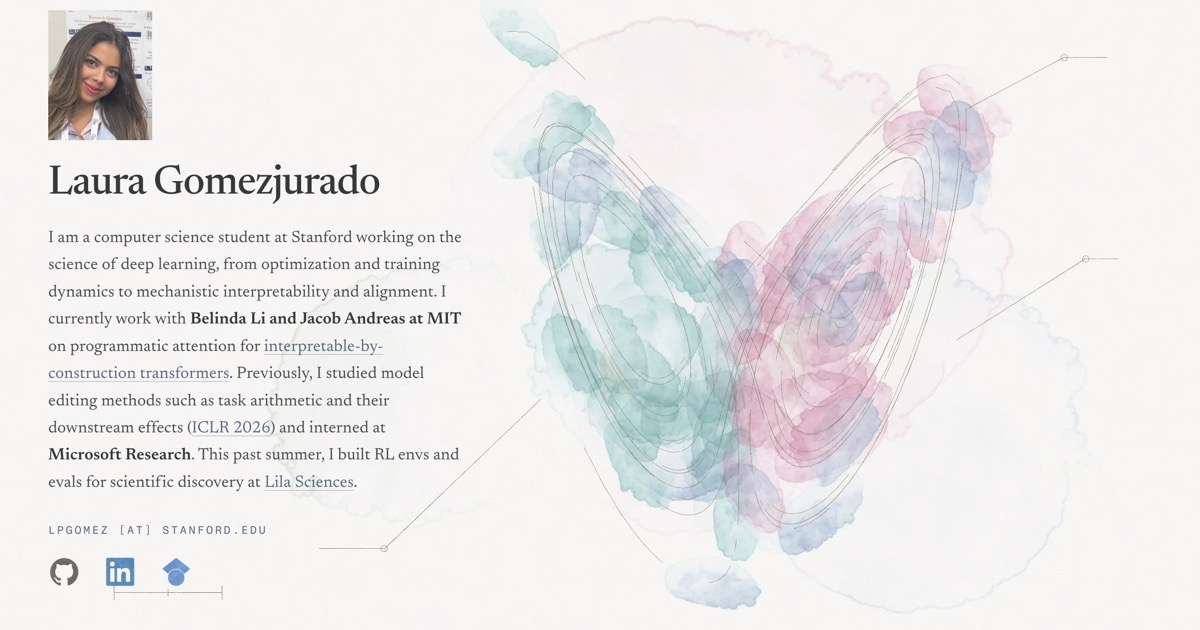
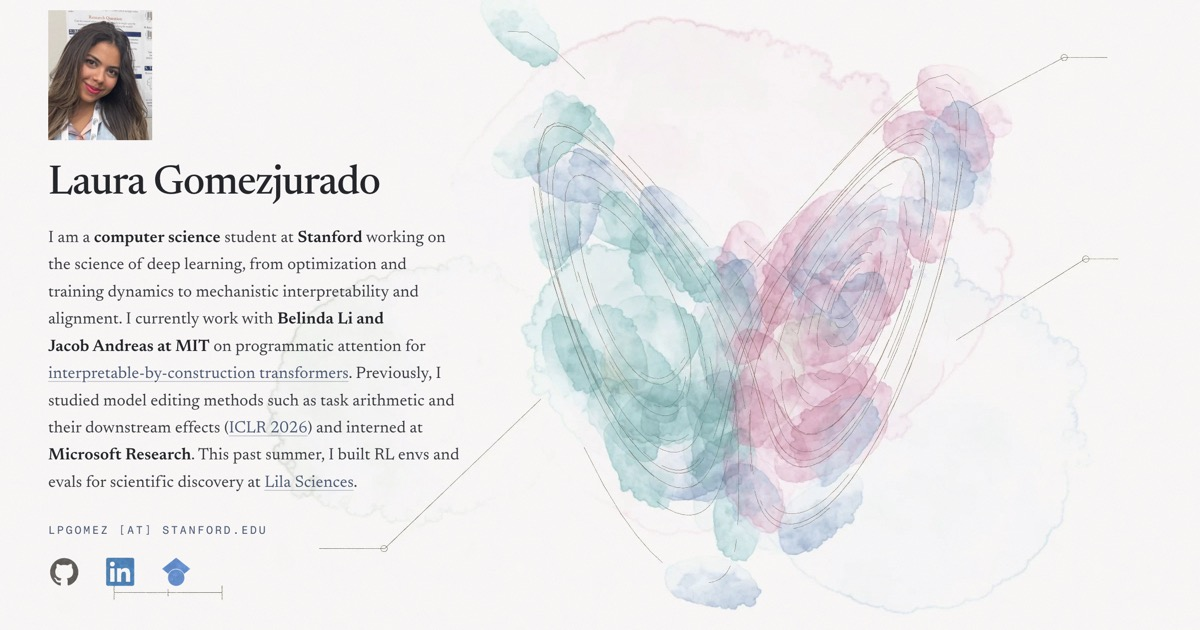
Hero bolds computer science and Stanford; research section set tighter
In the hero bio I set "computer science" and "Stanford" in the same
semibold ink-strong style as the other names. In Research and on
/portfolio the venue and author line keeps the case of the source text
with 0.02em tracking, where it was uppercase with wide tracking. I cut the
project title size from clamp(1.8rem, 3.4vw, 2.6rem) to
clamp(1.45rem, 2.3vw, 1.85rem), the gap between projects from 38vh to 14vh,
and the margins around the header, meta line and links. The social card
home.jpg is re-rendered from the new hero.

Changed region(s): [[0.0308, 0.3619, 0.4008, 0.6937]]

diff --git a/src/components/Portfolio.jsx b/src/components/Portfolio.jsx
@@ -111,7 +111,7 @@ export default function Portfolio() {
     <section
       ref={sectionRef}
       id="portfolio"
-      className="relative z-10 px-5 pb-12 pt-24 sm:px-8 md:px-12 md:pb-16 md:pt-32"
+      className="relative z-10 px-5 pb-10 pt-16 sm:px-8 md:px-12 md:pb-12 md:pt-24"
       // The accent is the held painting's lead pigment, so the section changes
       // colour as you scroll it rather than carrying one hue throughout.
       style={
@@ -129,7 +129,7 @@ export default function Portfolio() {
       }
     >
       <div className="relative mx-auto w-full max-w-6xl">
-        <header ref={titleRef} className="mb-16 md:mb-24">
+        <header ref={titleRef} className="mb-8 md:mb-10">
           <h2 className="t-section">Research &amp; Projects</h2>
         </header>
 
@@ -146,7 +146,7 @@ export default function Portfolio() {
                   // LAST project has nothing to hand over to, so on that one it
                   // is just a hole - and it landed right where Research's bottom
                   // padding meets News's top padding, which is what made the gap.
-                  index === visibleProjects.length - 1 ? 'pb-8 md:pb-12' : 'pb-24 md:pb-[38vh]'
+                  index === visibleProjects.length - 1 ? 'pb-8 md:pb-12' : 'pb-10 md:pb-[14vh]'
                 }`}
                 aria-current={activeIdx === index ? 'true' : undefined}
               >
@@ -162,9 +162,9 @@ export default function Portfolio() {
                   />
                 )}
 
-                <h3 className="t-title mb-3">{project.title}</h3>
+                <h3 className="t-title mb-2">{project.title}</h3>
 
-                <p className="mono mb-5" style={{ color: 'var(--accent-quiet)' }}>
+                <p className="mono mb-3" style={{ color: 'var(--accent-quiet)', textTransform: 'none', letterSpacing: '0.02em', fontSize: '0.78rem' }}>
                   {[project.venue, project.org].filter(Boolean).join(' · ')}
                 </p>
 
@@ -172,7 +172,7 @@ export default function Portfolio() {
                   {project.description}
                 </p>
 
-                <div className="mt-6 flex flex-wrap gap-x-6 gap-y-3">
+                <div className="mt-3 flex flex-wrap gap-x-6 gap-y-3">
                   {project.github && (
                     <a href={project.github} target="_blank" rel="noopener noreferrer" className="link-editorial text-[13px]">
                       GitHub

diff --git a/src/components/Hero.jsx b/src/components/Hero.jsx
@@ -73,7 +73,15 @@ export default function Hero() {
 
           <div ref={metaRef}>
             <p className="mt-5 text-[16px] leading-[1.65] md:text-[16.5px]" style={{ color: 'var(--ink)' }}>
-              I am a computer science student at Stanford working on the science of deep
+              I am a{' '}
+              <strong className="font-semibold" style={{ color: 'var(--ink-strong)' }}>
+                computer science
+              </strong>{' '}
+              student at{' '}
+              <strong className="font-semibold" style={{ color: 'var(--ink-strong)' }}>
+                Stanford
+              </strong>{' '}
+              working on the science of deep
               learning, from optimization and training dynamics to mechanistic
               interpretability and alignment. I currently work with{' '}
               <strong className="font-semibold" style={{ color: 'var(--ink-strong)' }}>

diff --git a/src/components/PortfolioPage.jsx b/src/components/PortfolioPage.jsx
@@ -107,7 +107,7 @@ export default function PortfolioPage() {
                         {project.title}
                       </h3>
 
-                      <p className="mono text-[10.5px] md:text-[11px] mb-5 md:mb-6 tracking-widest uppercase" style={{ color: 'var(--accent-dim)' }}>
+                      <p className="mono mb-4" style={{ textTransform: 'none', letterSpacing: '0.02em', fontSize: '0.78rem', color: 'var(--accent-dim)' }}>
                         {project.venue}{project.org ? ` · ${project.org}` : ''}
                       </p>
 

diff --git a/src/index.css b/src/index.css
@@ -175,8 +175,8 @@ canvas { display: block; }
   font-family: var(--font-display);
   font-variation-settings: var(--display-mid);
   font-weight: 500;
-  font-size: clamp(1.8rem, 3.4vw, 2.6rem);
-  line-height: 1.05;
+  font-size: clamp(1.45rem, 2.3vw, 1.85rem);
+  line-height: 1.15;
   letter-spacing: -0.02em;
   color: var(--ink-strong);
 }
